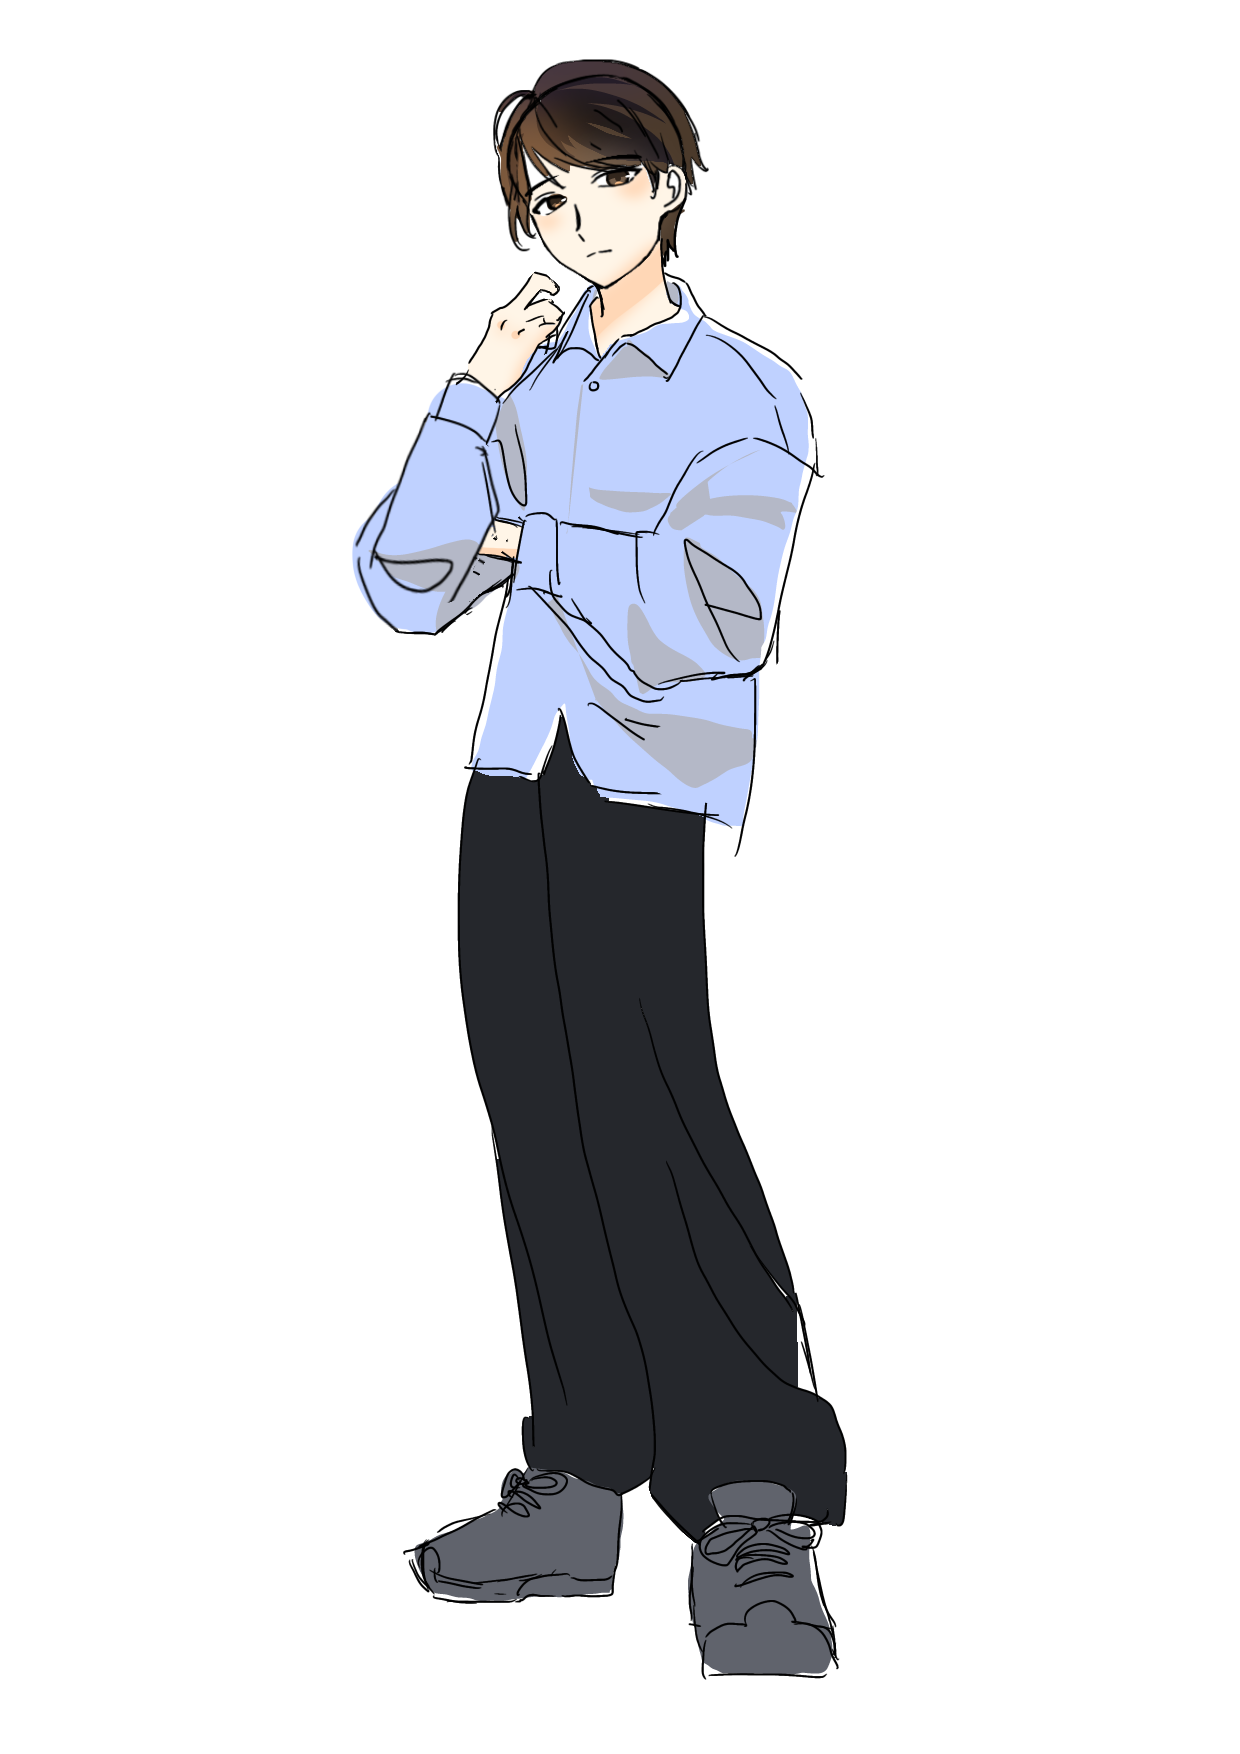
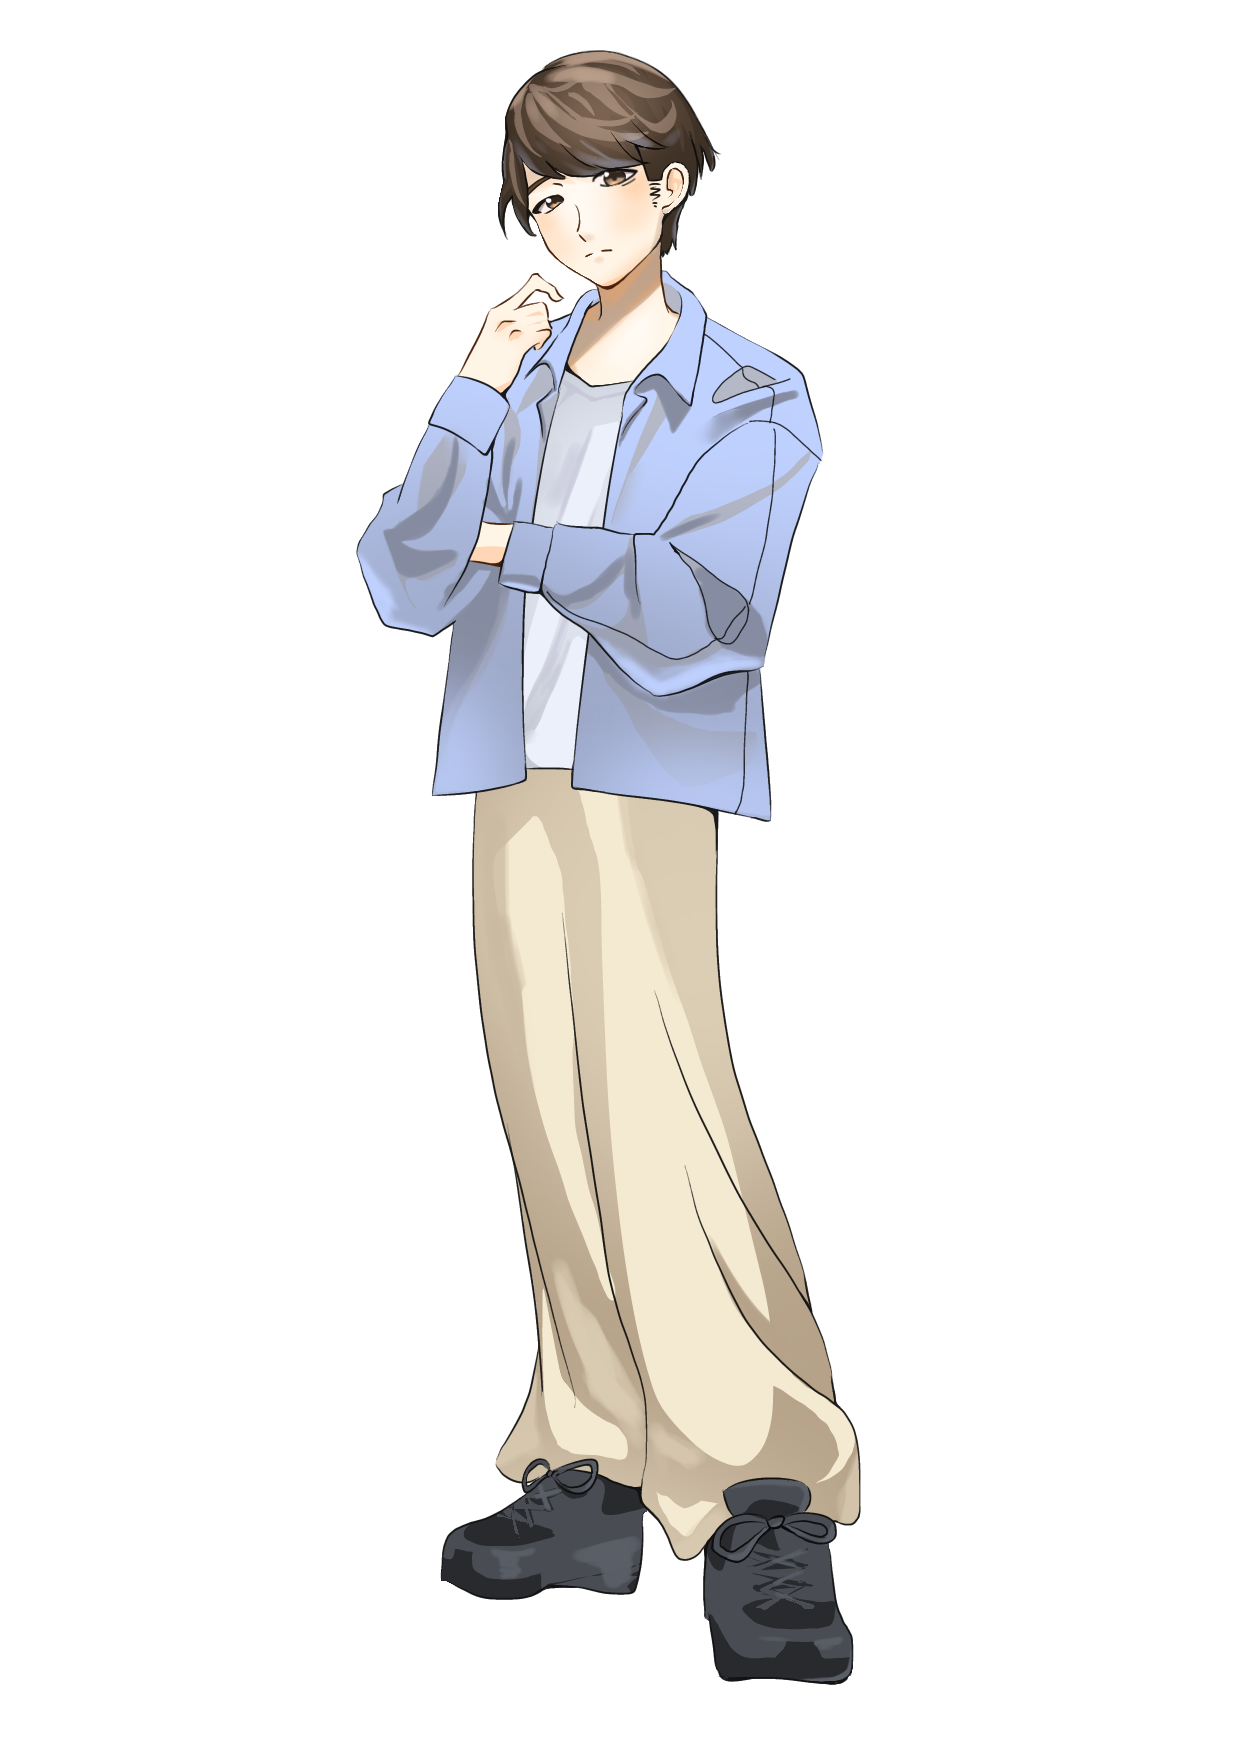
Replace Sato standing art with the finished transparent image

Changed region(s): [[0.2758, 0.0308, 0.7048, 0.9852]]

diff --git a/game-data.js b/game-data.js
@@ -33,7 +33,7 @@ window.GAME_DATA = {
       fullName: "佐藤太郎",
       tag: "婚活しに来た人。まさに普通",
       portrait: "sato",
-      standingImage: "sato-standing.png?v=20261007-full-body",
+      standingImage: "sato-standing.png?v=20261016-finished-art",
       color: "#d84f4f",
       stats: ["佐藤濃度 92%", "ラーメン耐性 高", "Netflix 未加入"],
       opening: "はじめまして。僕は佐藤太郎です。",

diff --git a/index.html b/index.html
@@ -71,7 +71,7 @@
 
     </main>
 
-    <script src="game-data.js?v=20261010-standing-art"></script>
+    <script src="game-data.js?v=20261016-finished-sato"></script>
     <script src="app.js?v=20261012-selection-focus"></script>
   </body>
 </html>

diff --git a/otome-original.html b/otome-original.html
@@ -71,7 +71,7 @@
 
     </main>
 
-    <script src="game-data.js?v=20261010-standing-art"></script>
+    <script src="game-data.js?v=20261016-finished-sato"></script>
     <script src="app.js?v=20261012-selection-focus"></script>
   </body>
 </html>

diff --git a/otome.html b/otome.html
@@ -72,7 +72,7 @@
 
     </main>
 
-    <script src="game-data.js?v=20261010-standing-art"></script>
+    <script src="game-data.js?v=20261016-finished-sato"></script>
     <script src="app.js?v=20261012-selection-focus"></script>
   </body>
 </html>
